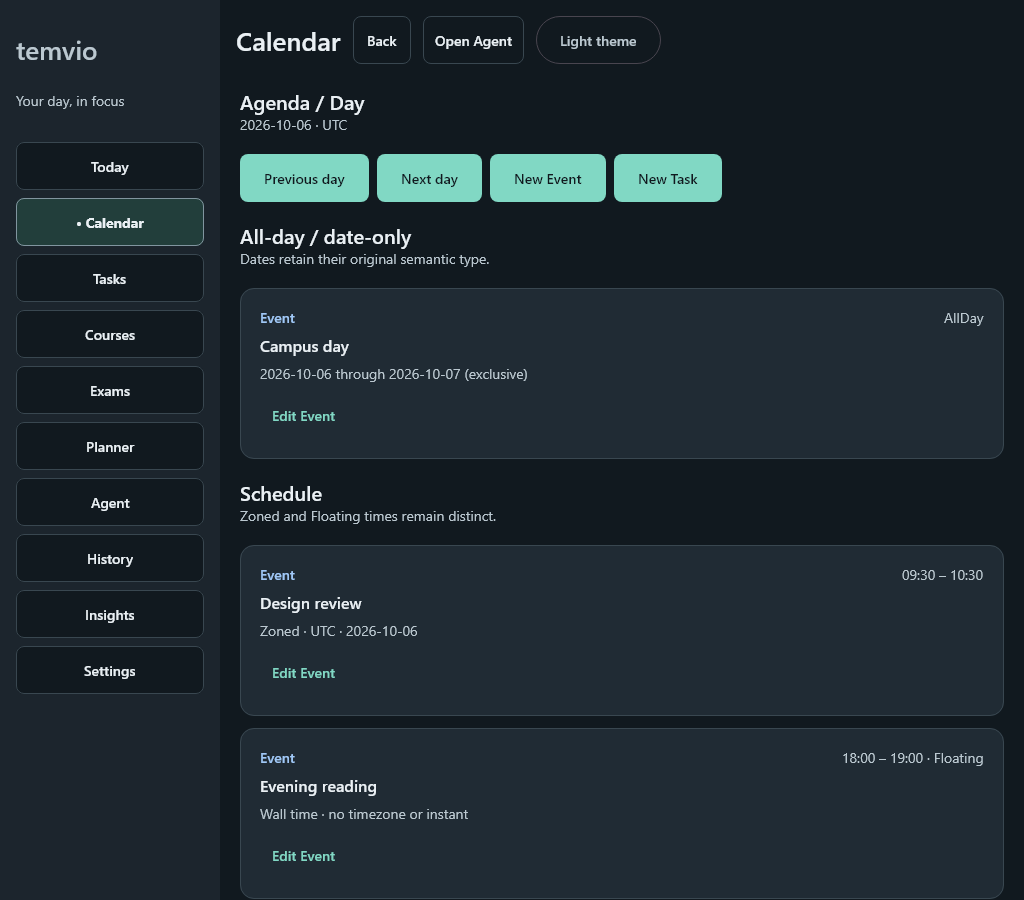
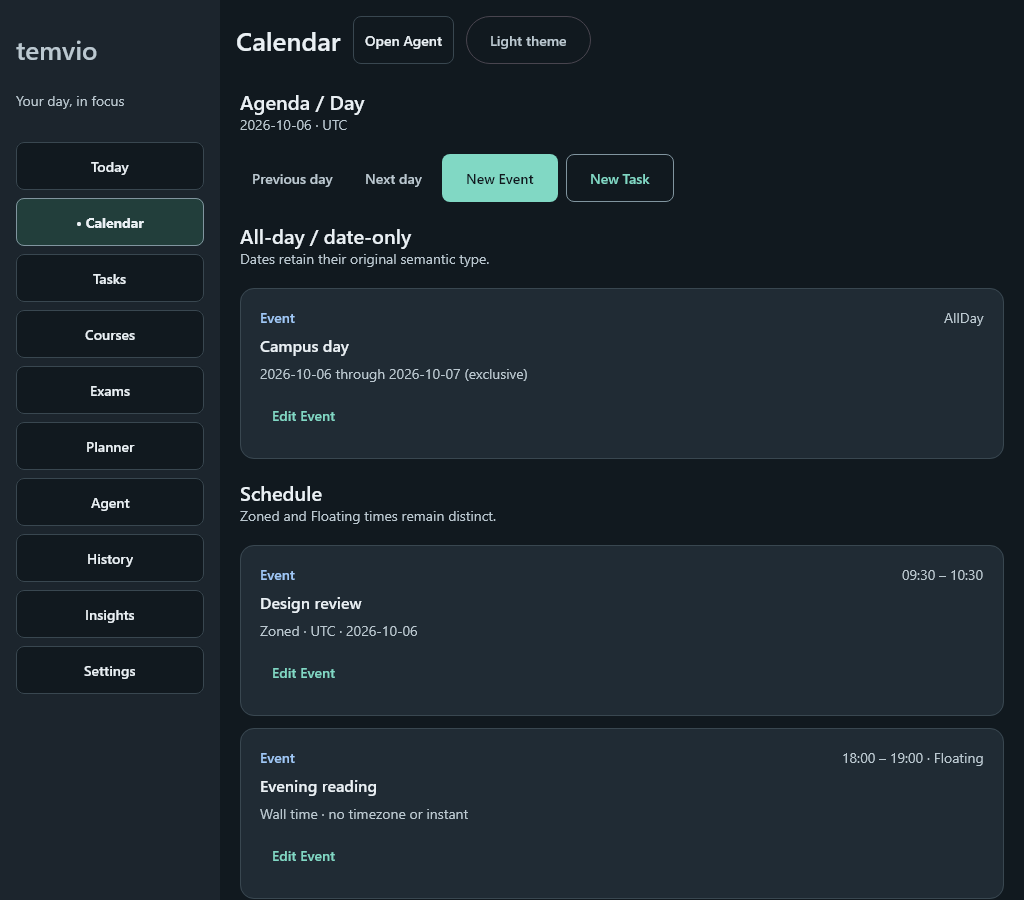
fix(ui): separate primary navigation and clarify action roles

Changed region(s): [[0.2188, 0.1556, 0.7188, 0.2489], [0.3438, 0.0311, 0.625, 0.0622]]

diff --git a/apps/desktop/src/test/kotlin/dev/agenticscheduler/desktop/AppShellTest.kt b/apps/desktop/src/test/kotlin/dev/agenticscheduler/desktop/AppShellTest.kt
@@ -20,11 +20,14 @@ import androidx.compose.ui.graphics.asSkiaBitmap
 
 @OptIn(ExperimentalTestApi::class)
 class AppShellTest {
-    @Test fun typedNavigationIsIdempotentAndBackIsExplicit() {
+    @Test fun primarySelectionsNeverBecomeBackHistory() {
         val nav=DesktopNavigation()
         check(nav.current==DesktopDestination.TODAY)
-        nav.open(DesktopDestination.AGENT); nav.open(DesktopDestination.AGENT)
-        check(nav.back()); check(nav.current==DesktopDestination.TODAY); check(!nav.back())
+        DesktopDestination.entries.forEach { destination ->
+            nav.open(destination); nav.open(destination)
+            check(nav.current==destination); check(!nav.canGoBack)
+            check(!nav.back()); check(nav.current==destination)
+        }
     }
 
     @Test fun navigationAndThemeNeverSendAndAgentDraftSurvives() = fixture { f ->
@@ -45,6 +48,7 @@ class AppShellTest {
             runOnIdle { width=1024f }
             onNodeWithText("Do not send this draft").assertExists()
             onNodeWithTag("desktop-nav-AGENT").assertIsSelected()
+            onNodeWithText("Back").assertDoesNotExist()
             check(f.providerRequests==0)
         }
     }
@@ -108,6 +112,25 @@ class AppShellTest {
             onNodeWithText("Discard draft").performClick()
             onNodeWithText("Uncommitted draft").assertDoesNotExist()
             runBlocking { check(f.journal.timeline().size==4) }
+        }
+    }
+
+    @Test fun dayActionsUseSharedHierarchyAndFullTargetsInBothThemes() = fixture { f ->
+        for (dark in listOf(false,true)) runDesktopComposeUiTest(width=1024,height=900) {
+            val nav=DesktopNavigation()
+            setContent { DesktopApp(f.reads,f.planner,f.profileSettings,f.eventEditor,f.taskEditor,null,{},
+                f.run,f.agent,f.secrets,f.enrollments,f.ids,f.conversationSettings,
+                DesktopScheduleScreenCoordinator(f.reads,f.date,f.zone),nav,dark) }
+            for (destination in listOf(DesktopDestination.TODAY,DesktopDestination.CALENDAR)) {
+                runOnIdle { nav.open(destination) }
+                waitUntil(timeoutMillis=10000) { onAllNodesWithTag("schedule-ready").fetchSemanticsNodes().isNotEmpty() }
+                listOf("Previous day" to ActionRole.TERTIARY,"Next day" to ActionRole.TERTIARY,
+                    "New Event" to ActionRole.PRIMARY,"New Task" to ActionRole.SECONDARY).forEach { (label,role) ->
+                    onNodeWithText(label).assert(SemanticsMatcher.expectValue(ActionRoleKey,role)).assertHeightIsAtLeast(48.dp)
+                }
+                onNodeWithText("Back").assertDoesNotExist()
+            }
+            check(f.providerRequests==0)
         }
     }
 

diff --git a/shared/ui/src/commonMain/kotlin/dev/agenticscheduler/ui/Components.kt b/shared/ui/src/commonMain/kotlin/dev/agenticscheduler/ui/Components.kt
@@ -12,14 +12,27 @@ import androidx.compose.ui.semantics.*
 import androidx.compose.ui.text.font.FontWeight
 import androidx.compose.ui.unit.dp
 
+enum class ActionRole { PRIMARY, SECONDARY, TERTIARY }
+val ActionRoleKey = SemanticsPropertyKey<ActionRole>("TemvioActionRole")
+
 @Composable
 fun ActionButton(onClick: () -> Unit, modifier: Modifier = Modifier, enabled: Boolean = true,
+    role: ActionRole = ActionRole.PRIMARY,
     content: @Composable RowScope.() -> Unit) {
     var focused by remember { mutableStateOf(false) }
     val c = LocalTemvioColors.current
-    Button(onClick = onClick, modifier = modifier.heightIn(min = 48.dp).onFocusChanged { focused = it.isFocused }
-        .then(if (focused) Modifier.border(2.dp, c.text, RoundedCornerShape(8.dp)) else Modifier), enabled = enabled,
-        shape = RoundedCornerShape(8.dp), content = content)
+    val actionModifier = modifier.heightIn(min = TemvioSpace.target)
+        .semantics { this[ActionRoleKey] = role }.onFocusChanged { focused = it.isFocused }
+        .then(if (focused) Modifier.border(2.dp, c.text, RoundedCornerShape(8.dp)) else Modifier)
+    when (role) {
+        ActionRole.PRIMARY -> Button(onClick = onClick, modifier = actionModifier, enabled = enabled,
+            shape = RoundedCornerShape(8.dp), content = content)
+        ActionRole.SECONDARY -> OutlinedButton(onClick = onClick, modifier = actionModifier, enabled = enabled,
+            shape = RoundedCornerShape(8.dp), border = BorderStroke(1.dp, c.strongBorder),
+            colors = ButtonDefaults.outlinedButtonColors(contentColor = c.accent), content = content)
+        ActionRole.TERTIARY -> TextButton(onClick = onClick, modifier = actionModifier, enabled = enabled,
+            shape = RoundedCornerShape(8.dp), colors = ButtonDefaults.textButtonColors(contentColor = c.secondary), content = content)
+    }
 }
 
 @Composable
@@ -33,7 +46,8 @@ fun SectionHeading(title: String, detail: String? = null) {
 @Composable
 fun PresentationCard(modifier: Modifier = Modifier, content: @Composable ColumnScope.() -> Unit) {
     Surface(modifier.fillMaxWidth(), shape = RoundedCornerShape(14.dp),
-        color = LocalTemvioColors.current.elevated, border = BorderStroke(1.dp, LocalTemvioColors.current.border)) {
+        color = LocalTemvioColors.current.elevated, shadowElevation = ElevationRole.FLAT.shadowElevation,
+        border = BorderStroke(1.dp, LocalTemvioColors.current.border)) {
         Column(Modifier.padding(20.dp), verticalArrangement = Arrangement.spacedBy(8.dp), content = content)
     }
 }

diff --git a/apps/android/src/androidTest/kotlin/dev/agenticscheduler/android/AppShellInstrumentedTest.kt b/apps/android/src/androidTest/kotlin/dev/agenticscheduler/android/AppShellInstrumentedTest.kt
@@ -18,13 +18,38 @@ import java.io.File
 class AppShellInstrumentedTest {
     @get:Rule val compose=createComposeRule()
 
-    @Test fun typedBackStackDoesNotExecuteAnIntent() {
+    @Test fun primarySelectionReplacesHistoryAndMoreOwnsItsSecondaryRoutes() {
         val nav=AndroidNavigation()
         check(!nav.canGoBack)
-        nav.open(AndroidDestination.MORE); nav.open(AndroidDestination.PROVIDER)
-        check(nav.back()); check(nav.current==AndroidDestination.MORE)
-        check(nav.back()); check(nav.current==AndroidDestination.TODAY)
-        check(!nav.back())
+        AndroidDestination.primary.forEach { primary ->
+            nav.open(primary); nav.open(primary)
+            check(nav.current==primary); check(!nav.canGoBack); check(!nav.back())
+        }
+        AndroidDestination.entries.filter { it !in AndroidDestination.primary }.forEach { secondary ->
+            nav.open(secondary); nav.open(secondary)
+            check(nav.current==secondary); check(nav.canGoBack)
+            check(nav.back()); check(nav.current==AndroidDestination.MORE); check(!nav.back())
+            AndroidDestination.primary.forEach { primary ->
+                nav.open(secondary); nav.open(primary)
+                check(nav.current==primary); check(!nav.canGoBack); check(!nav.back())
+            }
+        }
+    }
+
+    @Test fun systemBackReturnsFromMoreSecondaryAndPrimarySwitchLeavesIt() = fixture { f, _ ->
+        val nav=AndroidNavigation()
+        compose.setContent { AndroidApp(f.reads,f.planner,f.profileSettings,f.eventEditor,f.taskEditor,
+            f.agent,f.run,f.secrets,f.enrollments,f.ids,f.conversationSettings,null,{},
+            AndroidScheduleScreenCoordinator(f.reads,f.date,f.zone),nav,false) }
+        openPrimary("MORE")
+        compose.onNodeWithText("Courses").performScrollTo().performClick()
+        compose.runOnIdle { check(nav.current==AndroidDestination.COURSES) }
+        InstrumentationRegistry.getInstrumentation().sendKeyDownUpSync(android.view.KeyEvent.KEYCODE_BACK)
+        compose.runOnIdle { check(nav.current==AndroidDestination.MORE); check(!nav.canGoBack) }
+        compose.onNodeWithText("Courses").performScrollTo().performClick()
+        openPrimary("TODAY")
+        compose.runOnIdle { check(nav.current==AndroidDestination.TODAY); check(!nav.canGoBack) }
+        check(f.providerRequests==0)
     }
 
     @Test fun agentDraftSurvivesNavigationAndThemeWithoutSending() = fixture { f, _ ->

diff --git a/shared/ui/src/commonTest/kotlin/dev/agenticscheduler/ui/PresentationTest.kt b/shared/ui/src/commonTest/kotlin/dev/agenticscheduler/ui/PresentationTest.kt
@@ -2,6 +2,7 @@ package dev.agenticscheduler.ui
 
 import kotlin.test.*
 import kotlin.math.pow
+import androidx.compose.ui.unit.dp
 
 class PresentationTest {
     @Test fun responsiveBoundaries() {
@@ -27,6 +28,8 @@ class PresentationTest {
             listOf(c.surface,c.container,c.elevated,c.selected).forEach { bg ->
                 listOf(c.text,c.secondary,c.muted).forEach { assertTrue(contrast(it,bg)>=4.5, "Text contrast $it on $bg") }
                 assertTrue(contrast(c.focus,bg)>=3, "Focus contrast")
+                assertTrue(contrast(c.strongBorder,bg)>=3, "Secondary control outline contrast")
+                assertTrue(contrast(c.accent,bg)>=4.5, "Secondary action text contrast")
             }
             listOf(c.event,c.task,c.course,c.exam,c.focusBlock,c.agent,c.success,c.warning,c.danger,c.conflict).forEach {
                 assertTrue(contrast(it,c.elevated)>=4.5, "Semantic label contrast")
@@ -34,5 +37,11 @@ class PresentationTest {
         }
         assertEquals(6, EntityKind.entries.map { it.label }.toSet().size)
         assertEquals("FocusBlock", EntityKind.FOCUS_BLOCK.label)
+    }
+    @Test fun restrainedElevationAndMotionRolesHaveExplicitNoMotionOverride() {
+        assertEquals(listOf(0.dp,2.dp,6.dp),ElevationRole.entries.map { it.shadowElevation })
+        assertEquals(listOf(0,120,200),MotionRole.entries.map { it.durationMillis() })
+        MotionRole.entries.forEach { assertEquals(0,it.durationMillis(noMotion=true)) }
+        assertEquals(3,ActionRole.entries.size)
     }
 }

diff --git a/apps/android/src/main/kotlin/dev/agenticscheduler/android/AndroidApp.kt b/apps/android/src/main/kotlin/dev/agenticscheduler/android/AndroidApp.kt
@@ -114,10 +114,10 @@ internal fun AndroidApp(
                         }
                         item {
                             FlowRow(horizontalArrangement = Arrangement.spacedBy(8.dp)) {
-                                Button(onClick = { selectedDate = selectedDate.plus(-1, DateTimeUnit.DAY) }) { Text("Previous day") }
-                                Button(onClick = { selectedDate = selectedDate.plus(1, DateTimeUnit.DAY) }) { Text("Next day") }
+                                Button(role = ActionRole.TERTIARY, onClick = { selectedDate = selectedDate.plus(-1, DateTimeUnit.DAY) }) { Text("Previous day") }
+                                Button(role = ActionRole.TERTIARY, onClick = { selectedDate = selectedDate.plus(1, DateTimeUnit.DAY) }) { Text("Next day") }
                                 Button(onClick = { creatingEvent = true }) { Text("New Event") }
-                                Button(onClick = { creatingTask = true }) { Text("New Task") }
+                                Button(role = ActionRole.SECONDARY, onClick = { creatingTask = true }) { Text("New Task") }
                             }
                         }
                         item { SectionHeading("All-day / date-only", "Dates retain their original semantic type.") }

diff --git a/apps/desktop/src/main/kotlin/dev/agenticscheduler/desktop/DesktopApp.kt b/apps/desktop/src/main/kotlin/dev/agenticscheduler/desktop/DesktopApp.kt
@@ -112,10 +112,10 @@ internal fun DesktopApp(
                         }
                         item {
                             FlowRow(horizontalArrangement = Arrangement.spacedBy(8.dp)) {
-                                Button(onClick = { selectedDate = selectedDate.plus(-1, DateTimeUnit.DAY) }) { Text("Previous day") }
-                                Button(onClick = { selectedDate = selectedDate.plus(1, DateTimeUnit.DAY) }) { Text("Next day") }
+                                Button(role = ActionRole.TERTIARY, onClick = { selectedDate = selectedDate.plus(-1, DateTimeUnit.DAY) }) { Text("Previous day") }
+                                Button(role = ActionRole.TERTIARY, onClick = { selectedDate = selectedDate.plus(1, DateTimeUnit.DAY) }) { Text("Next day") }
                                 Button(onClick = { creatingEvent = true }) { Text("New Event") }
-                                Button(onClick = { creatingTask = true }) { Text("New Task") }
+                                Button(role = ActionRole.SECONDARY, onClick = { creatingTask = true }) { Text("New Task") }
                             }
                         }
                         item { SectionHeading("All-day / date-only", "Dates retain their original semantic type.") }

diff --git a/shared/ui/src/commonMain/kotlin/dev/agenticscheduler/ui/TemvioTheme.kt b/shared/ui/src/commonMain/kotlin/dev/agenticscheduler/ui/TemvioTheme.kt
@@ -5,6 +5,7 @@ import androidx.compose.runtime.*
 import androidx.compose.ui.graphics.Color
 import androidx.compose.foundation.shape.RoundedCornerShape
 import androidx.compose.ui.unit.dp
+import androidx.compose.ui.unit.Dp
 import androidx.compose.ui.unit.sp
 import androidx.compose.ui.text.TextStyle
 import androidx.compose.ui.text.font.FontWeight
@@ -36,6 +37,14 @@ val DarkTemvioColors = TemvioColors(
     Color(0xFFBACCDD), Color(0xFF81D8C4),
 )
 val LocalTemvioColors = staticCompositionLocalOf { LightTemvioColors }
+/** Visual layering only; elevation carries no business authority. */
+enum class ElevationRole(val shadowElevation: Dp) { FLAT(0.dp), RAISED(2.dp), OVERLAY(6.dp) }
+
+/** Duration vocabulary, not an animation scheduler. Platforms supply no/reduced-motion facts. */
+enum class MotionRole(private val nominalDurationMillis: Int) {
+    IMMEDIATE(0), SHORT(120), STANDARD(200);
+    fun durationMillis(noMotion: Boolean = false): Int = if (noMotion) 0 else nominalDurationMillis
+}
 object TemvioSpace {
     val small = 8.dp; val medium = 16.dp; val large = 24.dp; val section = 32.dp
     val readingWidth = 1040.dp; val formWidth = 640.dp; val target = 48.dp

diff --git a/apps/android/src/main/kotlin/dev/agenticscheduler/android/AndroidNavigation.kt b/apps/android/src/main/kotlin/dev/agenticscheduler/android/AndroidNavigation.kt
@@ -21,11 +21,15 @@ enum class AndroidDestination(val label: String) {
     companion object { val primary = listOf(TODAY, CALENDAR, TASKS, AGENT, MORE) }
 }
 class AndroidNavigation {
-    private val stack = mutableStateListOf(AndroidDestination.TODAY)
+    private var stack by mutableStateOf(listOf(AndroidDestination.TODAY))
     val current: AndroidDestination get() = stack.last()
     val canGoBack: Boolean get() = stack.size > 1
-    fun open(destination: AndroidDestination) { if (current != destination) stack.add(destination) }
-    fun back(): Boolean = if (canGoBack) { stack.removeAt(stack.lastIndex); true } else false
+    fun open(destination: AndroidDestination) {
+        // A primary replaces the selection; current secondary destinations all belong to More.
+        stack = if (destination in AndroidDestination.primary) listOf(destination)
+            else listOf(AndroidDestination.MORE, destination)
+    }
+    fun back(): Boolean = if (canGoBack) { stack = stack.dropLast(1); true } else false
 }
 
 @Composable

diff --git a/apps/desktop/src/main/kotlin/dev/agenticscheduler/desktop/DesktopNavigation.kt b/apps/desktop/src/main/kotlin/dev/agenticscheduler/desktop/DesktopNavigation.kt
@@ -20,11 +20,12 @@ enum class DesktopDestination(val label: String) {
 
 /** Session navigation only. No service or command is executed on a transition. */
 class DesktopNavigation {
-    private val stack = mutableStateListOf(DesktopDestination.TODAY)
-    val current: DesktopDestination get() = stack.last()
-    val canGoBack: Boolean get() = stack.size > 1
-    fun open(destination: DesktopDestination) { if (current != destination) stack.add(destination) }
-    fun back(): Boolean = if (stack.size > 1) { stack.removeAt(stack.lastIndex); true } else false
+    // Every current destination is primary. Detail/form routes are a later typed graph.
+    private var primary by mutableStateOf(DesktopDestination.TODAY)
+    val current: DesktopDestination get() = primary
+    val canGoBack: Boolean get() = false
+    fun open(destination: DesktopDestination) { primary = destination }
+    fun back(): Boolean = false
 }
 
 @Composable

diff --git a/docs/tasks/D10_01_DESIGN_SYSTEM_APP_SHELL.md b/docs/tasks/D10_01_DESIGN_SYSTEM_APP_SHELL.md
@@ -29,11 +29,21 @@ Neutral Light/deep neutral Dark, restrained teal accent, crisp hierarchy. Semant
 surface/container/elevated/selected, text/secondary/muted, border/strong/focus,
 accent/success/warning/danger/conflict and six entity roles. Labels accompany color.
 Ordered spacing, restrained radii/elevation, readable widths, no decorative motion.
+Explicit `ActionRole` hierarchy: PRIMARY filled, SECONDARY outlined, TERTIARY
+text. Today/Calendar day navigation is tertiary, New Event primary, New Task
+secondary. Roles retain shared theme colors, focus and >=48dp targets.
+`ElevationRole`: FLAT 0dp, RAISED 2dp, OVERLAY 6dp; layering only.
+`MotionRole`: IMMEDIATE 0ms, SHORT 120ms, STANDARD 200ms; explicit no-motion
+override returns 0ms. These are presentation tokens, not newly enabled animation.
 
 Desktop destinations: Today, Calendar, Tasks, Courses, Exams, Planner, Agent,
 History, Insights, Settings. Android primary: Today, Calendar, Tasks, Agent, More;
 More exposes Courses, Exams, Planner, History, Insights, Sync/Security, Provider,
-Settings. Platform enums/back-stacks own navigation. Global Agent only opens it.
+Settings. Desktop destinations and Android's five primary destinations select a
+primary position, never accumulated history. Android secondary destinations
+have the typed path More -> secondary; Back returns to More. A primary selection
+leaves any secondary path. No fake detail route is introduced. Platform enums
+own navigation and the secondary back-stack. Global Agent only opens it.
 
 Desktop width classes: <900, 900–1439, >=1440. Android: <600, 600–839, >=840;
 height <480 uses one pane. Resize/theme/navigation must retain session drafts,
@@ -103,11 +113,17 @@ python test-support/d10-01/compare-captures.py --reference docs/tasks/fixtures/d
 git diff --check
 ```
 
-- Full local build: SUCCESS, 464 tasks (17 executed, 447 up-to-date on final build).
-- Targeted JVM: shared UI 2/2; Desktop 9/9 (6 new shell/actual Compose tests,
+- Initial full local build: SUCCESS on reviewed head `eecdaa6`, 464 tasks.
+- Review follow-up targeted JVM: shared UI 3/3; Desktop 10/10 (7 shell/actual Compose tests,
   3 retained Planner/Agent-control tests). Zero failures/skips in these sets.
-- Android native instrumentation: 3/3, zero failures/skips. Navigation/draft/theme,
+- Review follow-up Android native instrumentation: 4/4, zero failures/skips. Navigation/draft/theme,
   typed back-stack and actual Android Compose Light/Dark captures executed.
+- Primary selection tests cover every current Desktop destination and all five
+  Android primary destinations. Every More secondary returns to More, and every
+  primary leaves a secondary route. Native KEYCODE_BACK dispatch verifies the
+  actual BackHandler path. Desktop has no Back control after primary switching.
+  Both themes verify shared day-action roles and >=48dp targets. Token tests
+  verify restrained elevation/durations and explicit no-motion behavior.
 - The first rerun at 200% font found the test clicking an offscreen navigation
   control. It now scrolls to that control before clicking; the final run passed
   at that same 200% configuration.
@@ -134,6 +150,10 @@ retained unchanged.
 32 selected PNGs, SHA256 hashes, fixed inputs and actual platform renderers.
 The full generated matrix is 36 Desktop + 36 Android images. Core evidence is
 Light/Dark Today/Calendar/Agent at Desktop 1024×900 and Android 360×800.
+The focused review follow-up regenerates this same matrix. Desktop and Android
+Light/Dark Today and Calendar were each inspected; primary navigation no longer
+creates history, and day/creation actions have explicit visual hierarchy.
+Repeat rendering matches all 32 selected candidate hashes on the same platforms.
 Additional selected Today/Agent images cover Desktop 640×720, 1280×900,
 1440×960, 1920×1080 and 640×900 at 200%; Android 480×900, 600×960, 840×900,
 800×360 and 360×800 at 200%. Boundary tests cover 599/600, 839/840, 899/900,
